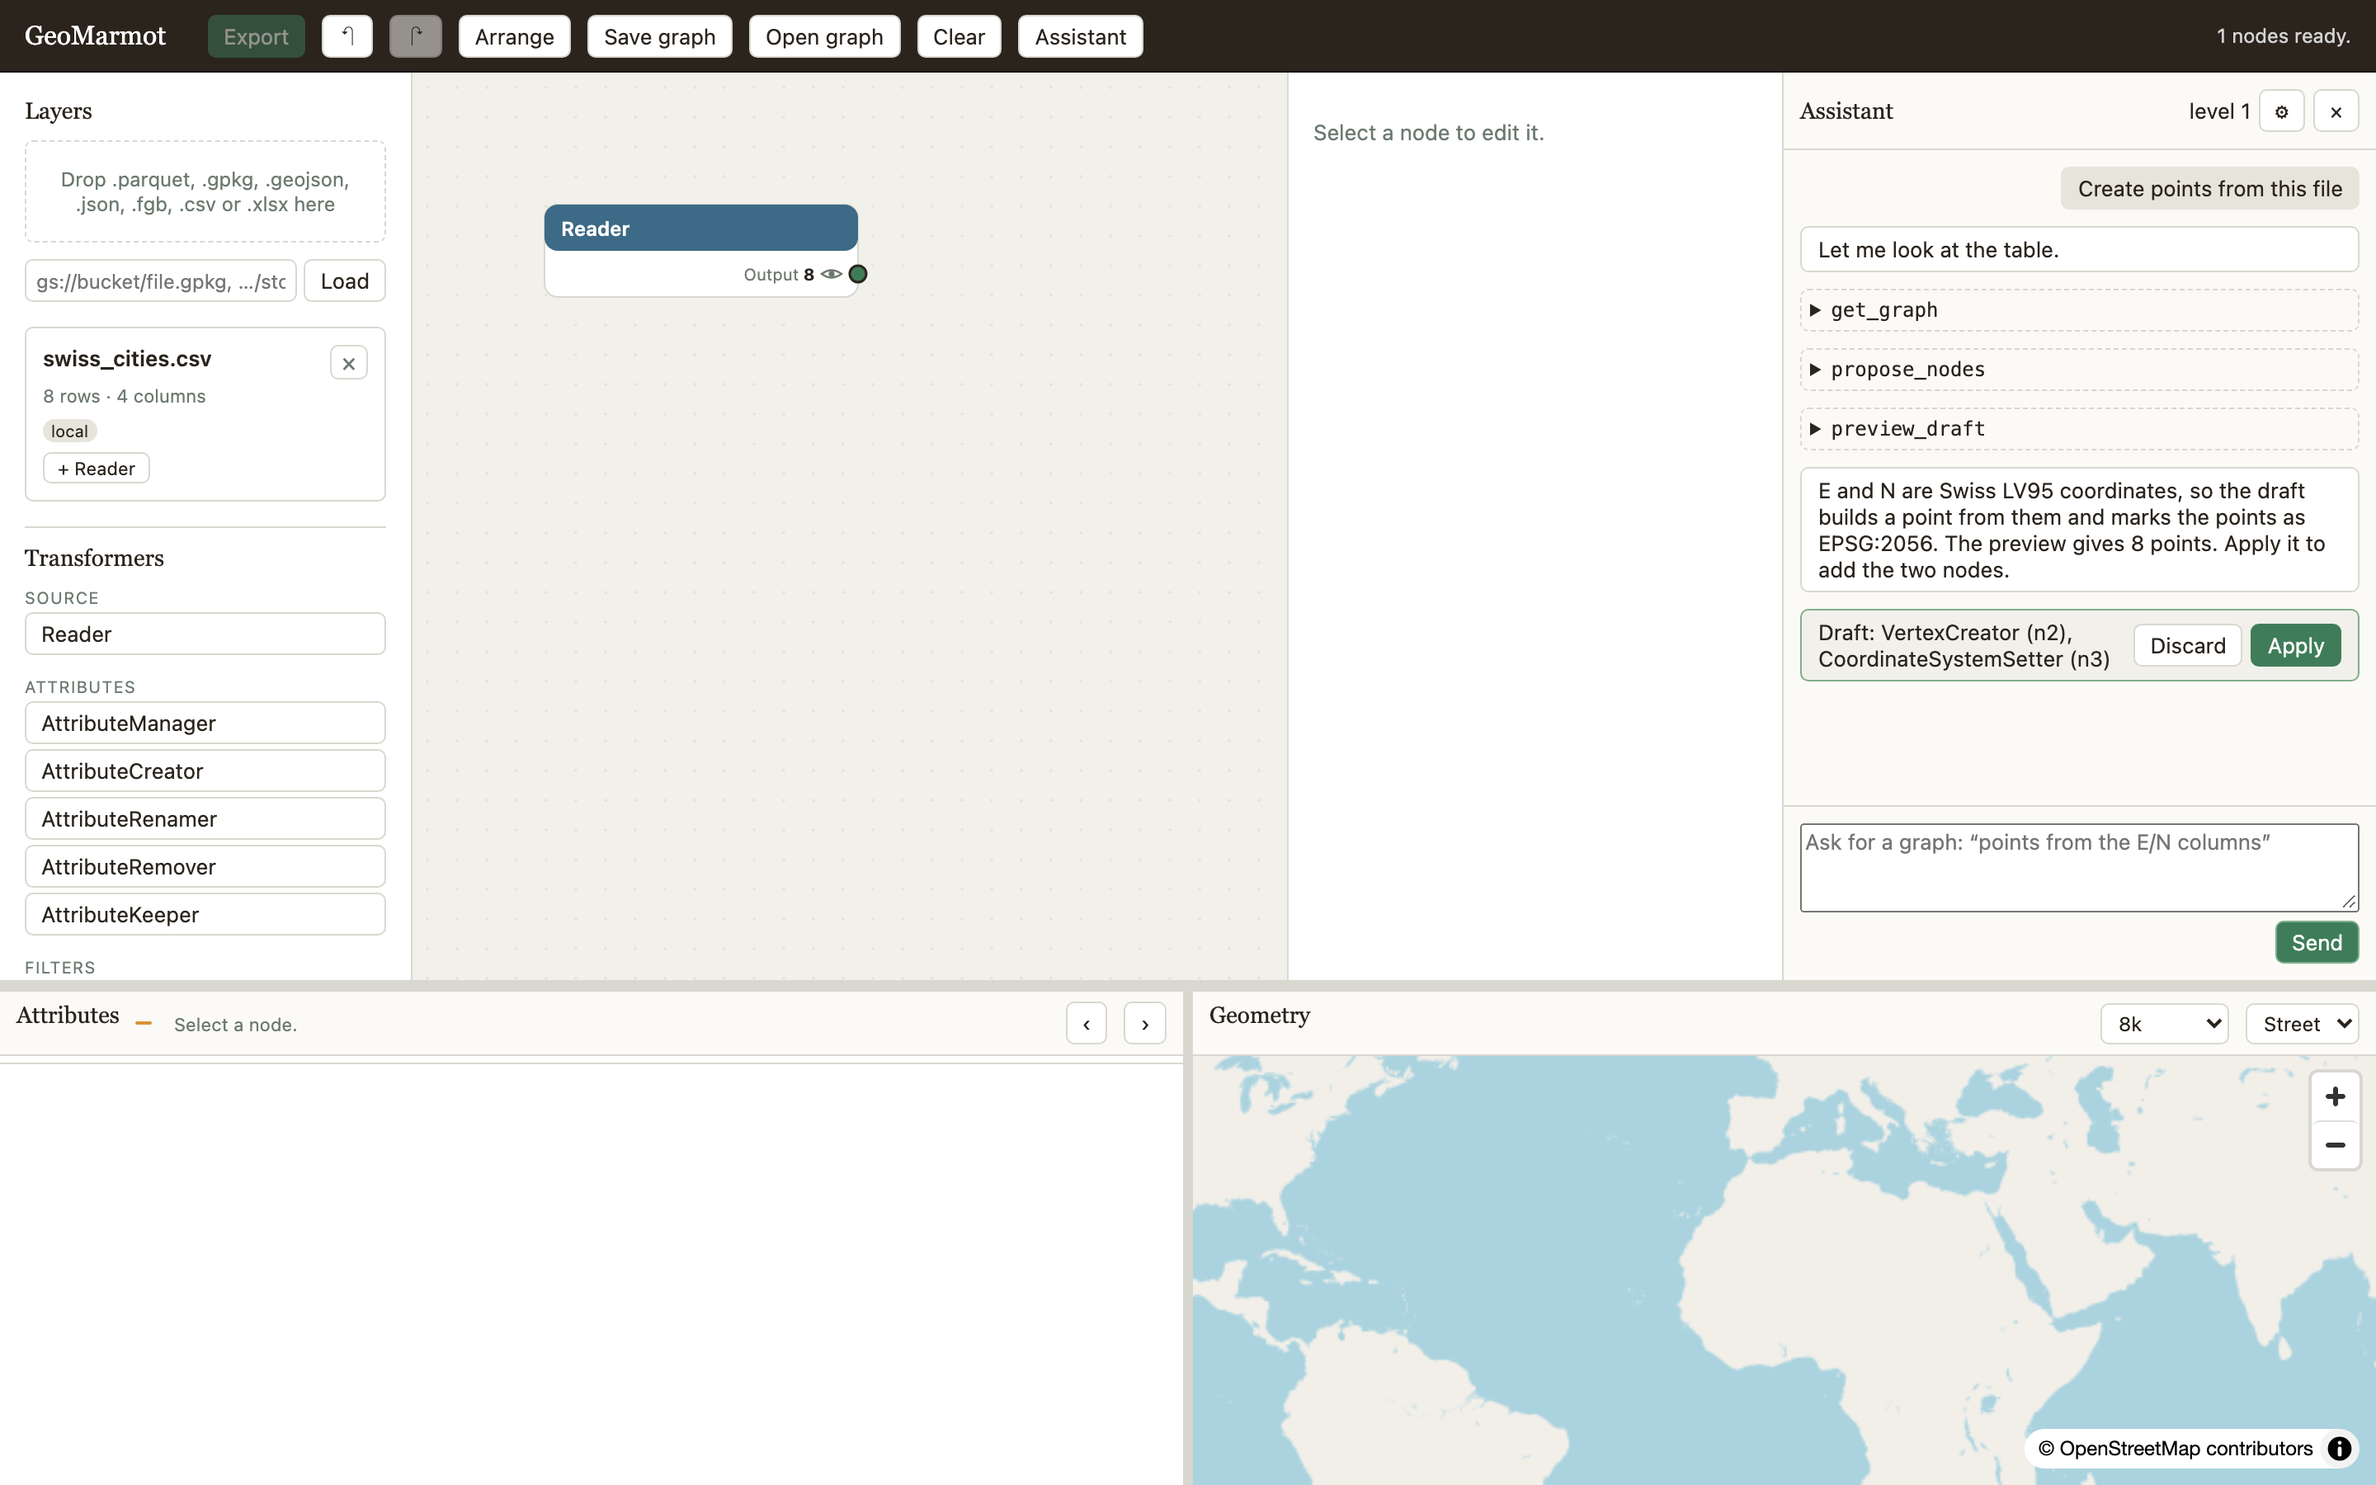
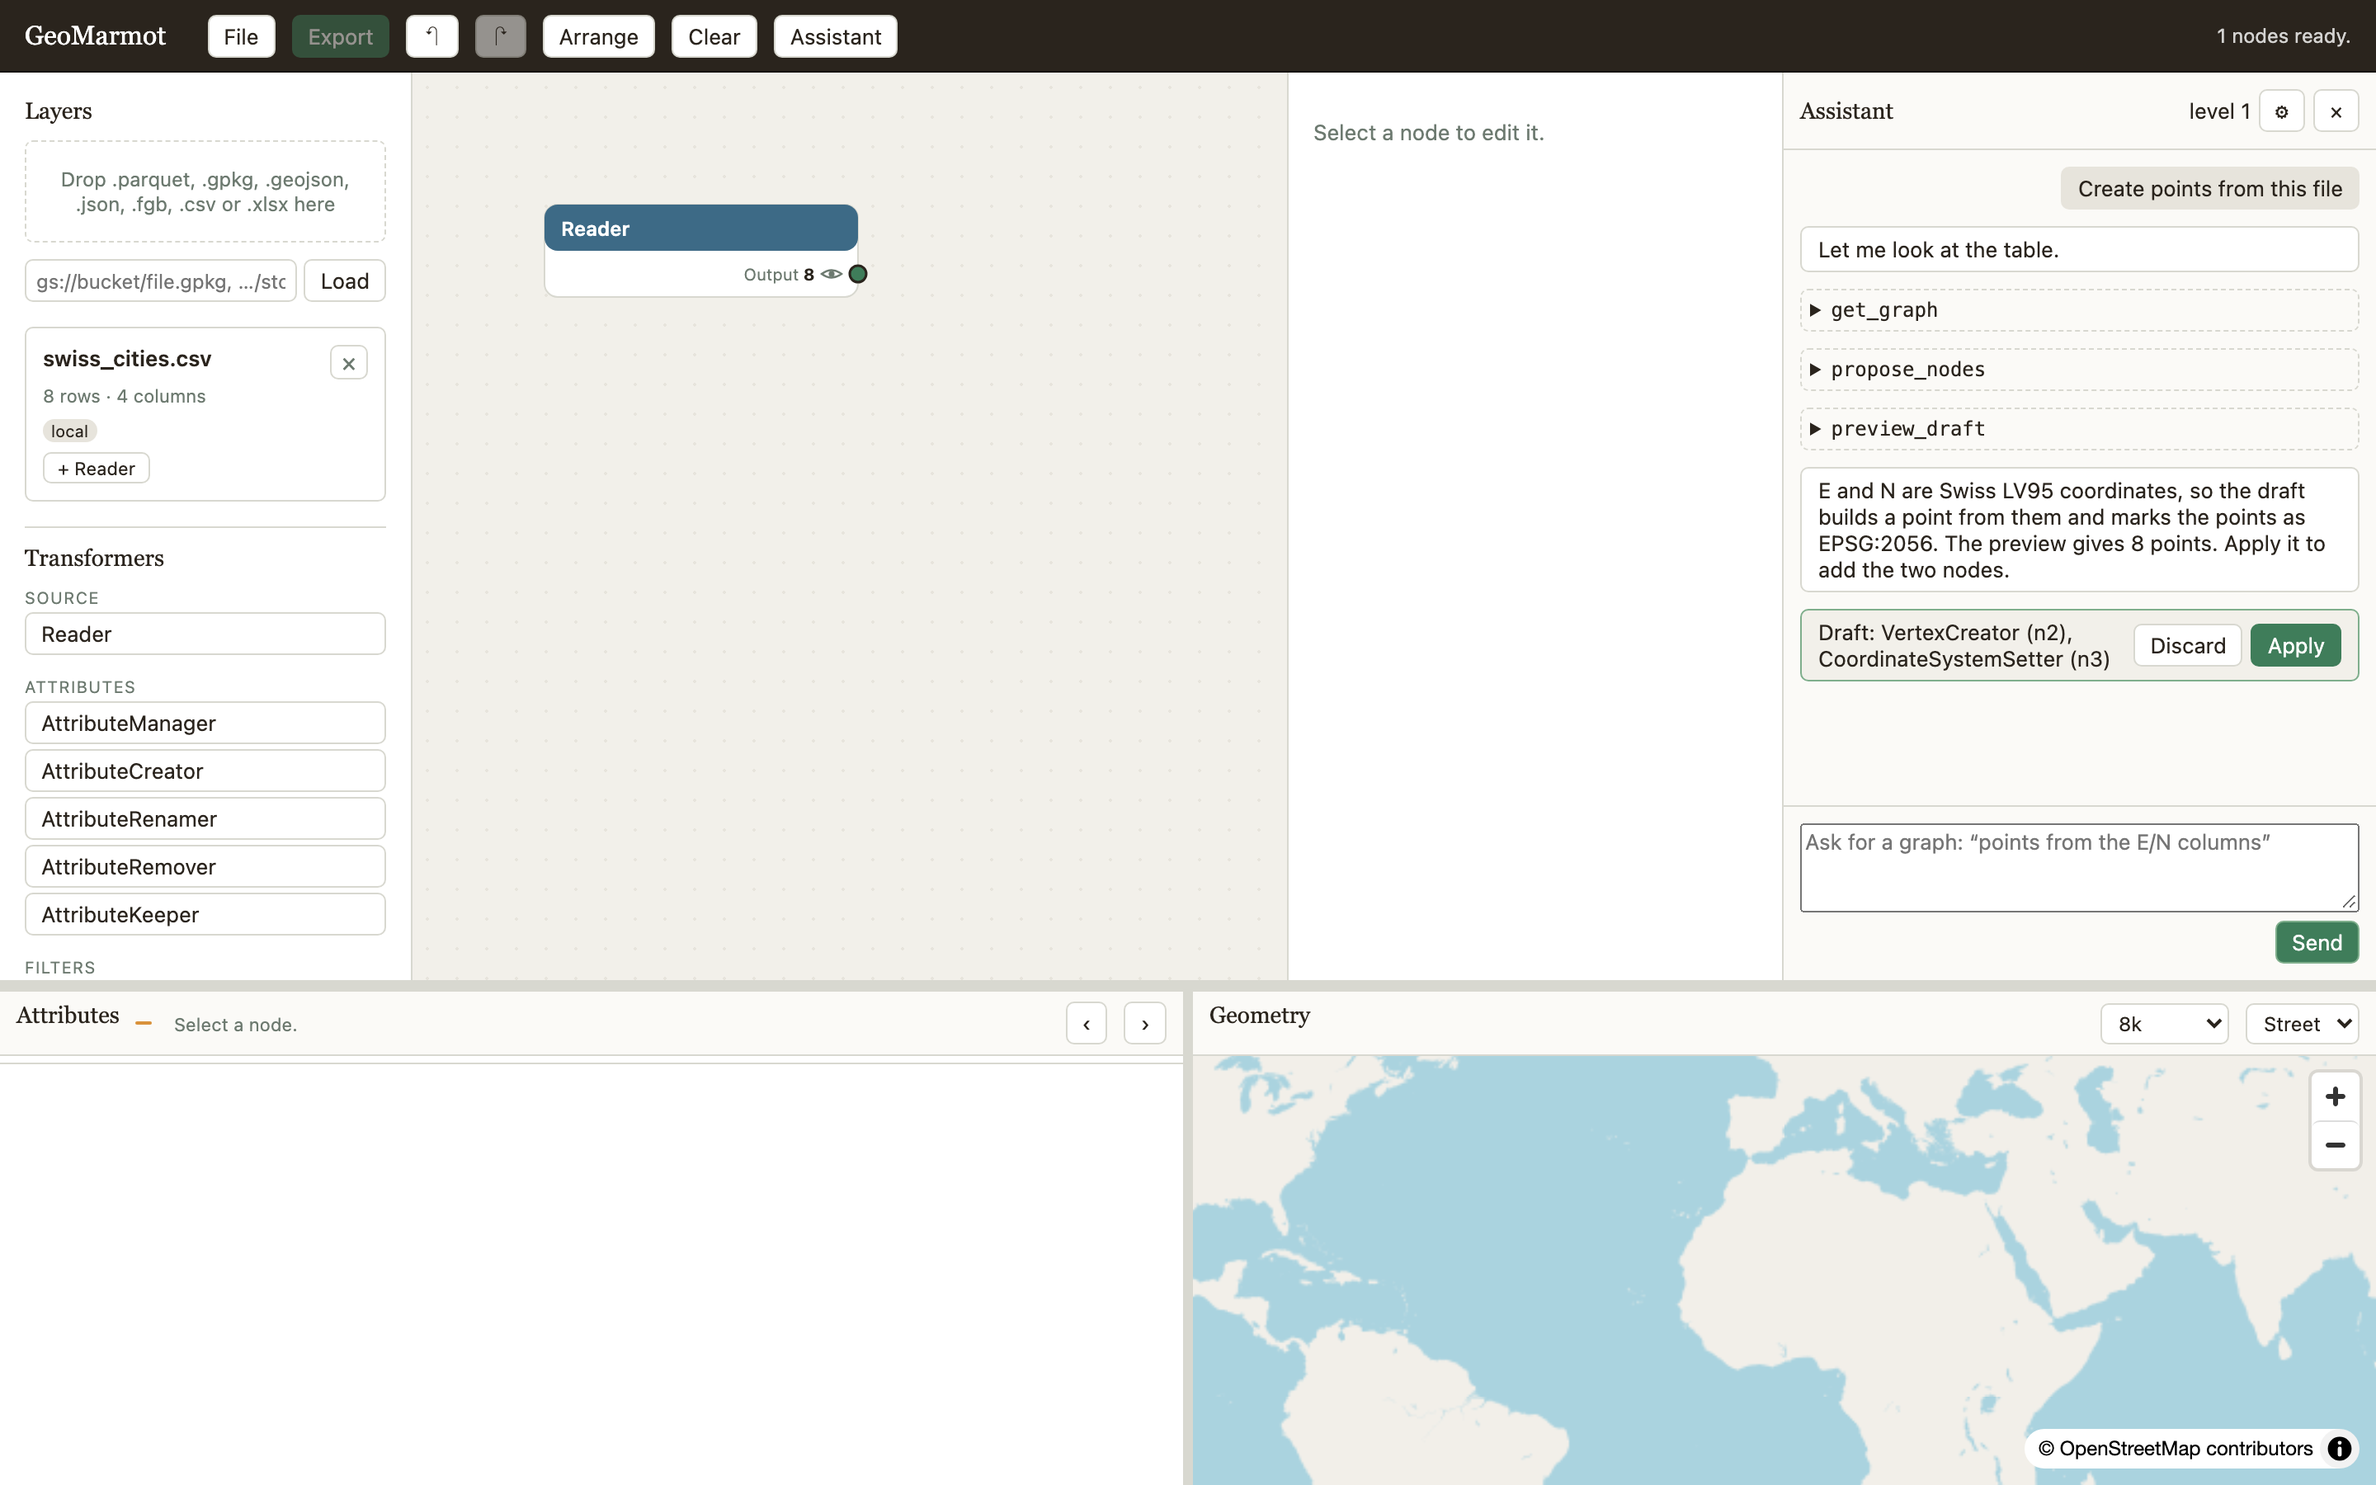
Put Open graph and Save graph in a File menu
The two toolbar buttons become a File menu at the start of the toolbar,
with ⌘O / Ctrl+O and ⌘S / Ctrl+S. It opens on click or with the arrow
keys, closes on Escape, a click outside or after an item runs, and uses
menu roles for screen readers. The README screenshots are regenerated.

Changed region(s): [[0.0625, 0.0, 0.5, 0.0622]]

diff --git a/tests/browser/workbench.spec.js b/tests/browser/workbench.spec.js
@@ -119,7 +119,10 @@ test("save graph downloads the geomarmot format; autosave restores the canvas af
   const { page } = app;
   await load(page, "cities.csv", CITIES);
   await openGraph(page, [{ id: "n1", type: "Reader", x: 40, y: 60, params: { sourceId: "s1__cities.csv" } }], []);
-  const [download] = await Promise.all([page.waitForEvent("download"), page.click("#btn-export-graph")]);
+  const [download] = await Promise.all([
+    page.waitForEvent("download"),
+    page.click("#btn-file").then(() => page.click("#menu-save-graph")),
+  ]);
   const saved = JSON.parse(readFileSync(await download.path(), "utf8"));
   expect(saved.format).toBe("geomarmot-graph");
   expect(saved.nodes.map((n) => n.type)).toEqual(["Reader"]);
@@ -229,4 +232,48 @@ test("an H3 index column draws as hexagons, with a coarsen control", async () =>
   await selectNode(page, "n1");
   await expect(page.locator("#map-status")).toContainText(/3/);
   await expect(page.locator("#coarsen-select option")).not.toHaveCount(0);
+});
+
+test("the File menu opens and saves graphs, from the mouse, the keyboard and the shortcuts", async () => {
+  const { page } = app;
+  await load(page, "cities.csv", CITIES);
+  await openGraph(page, [{ id: "n1", type: "Reader", x: 40, y: 60, params: { sourceId: "s1__cities.csv" } }], []);
+  const menu = page.locator("#menu-file");
+  await expect(menu).toBeHidden();
+
+  // Mouse: open, then a click outside closes it.
+  await page.click("#btn-file");
+  await expect(menu).toBeVisible();
+  await expect(page.locator("#btn-file")).toHaveAttribute("aria-expanded", "true");
+  await page.mouse.click(10, 400);
+  await expect(menu).toBeHidden();
+
+  // Keyboard: arrow down opens on the first item, Escape closes.
+  await page.focus("#btn-file");
+  await page.keyboard.press("ArrowDown");
+  await expect(page.locator("#menu-open-graph")).toBeFocused();
+  await page.keyboard.press("ArrowDown");
+  await expect(page.locator("#menu-save-graph")).toBeFocused();
+  await page.keyboard.press("Escape");
+  await expect(menu).toBeHidden();
+
+  // Save from the menu, and with the shortcut.
+  const [fromMenu] = await Promise.all([
+    page.waitForEvent("download"),
+    page.click("#btn-file").then(() => page.click("#menu-save-graph")),
+  ]);
+  expect(fromMenu.suggestedFilename()).toBe("graph.flow.json");
+  await expect(menu).toBeHidden();
+  await page.mouse.click(10, 400);
+  const [fromShortcut] = await Promise.all([page.waitForEvent("download"), page.keyboard.press("ControlOrMeta+s")]);
+  expect(fromShortcut.suggestedFilename()).toBe("graph.flow.json");
+
+  // Open from the menu asks for a file.
+  const [chooser] = await Promise.all([
+    page.waitForEvent("filechooser"),
+    page.click("#btn-file").then(() => page.click("#menu-open-graph")),
+  ]);
+  expect(chooser.isMultiple()).toBe(false);
+  // The old buttons are gone.
+  await expect(page.locator("#toolbar > button", { hasText: /graph/i })).toHaveCount(0);
 });

diff --git a/app/src/ui/menu.js b/app/src/ui/menu.js
@@ -1,0 +1,74 @@
+/*
+ * Toolbar menus: a button that opens a short list of actions.
+ *
+ * Opens on click or with the arrow keys, closes on Escape, on a click outside
+ * or after an item runs; Up and Down move between items. Built on plain
+ * buttons with menu roles, so screen readers announce it as a menu.
+ */
+
+import { el } from "./dom.js";
+
+const menus = [];
+
+function closeAll(except = null) {
+  for (const menu of menus) if (menu !== except) menu.close();
+}
+
+/**
+ * @param {string} buttonId
+ * @param {string} listId
+ * @param {Record<string, () => void>} actions  item id → what it does
+ */
+export function initMenu(buttonId, listId, actions) {
+  const button = el(buttonId);
+  const list = el(listId);
+  const items = () => [...list.querySelectorAll('[role="menuitem"]:not([disabled])')];
+
+  const menu = {
+    open(focusFirst = false) {
+      closeAll(menu);
+      list.hidden = false;
+      button.setAttribute("aria-expanded", "true");
+      if (focusFirst) items()[0]?.focus();
+    },
+    close() {
+      list.hidden = true;
+      button.setAttribute("aria-expanded", "false");
+    },
+  };
+  menus.push(menu);
+
+  button.addEventListener("click", () => (list.hidden ? menu.open() : menu.close()));
+  button.addEventListener("keydown", (event) => {
+    if (event.key === "ArrowDown" || event.key === "Enter" || event.key === " ") {
+      event.preventDefault();
+      menu.open(true);
+    }
+  });
+  list.addEventListener("keydown", (event) => {
+    const all = items();
+    const index = all.indexOf(document.activeElement);
+    if (event.key === "ArrowDown") all[(index + 1) % all.length]?.focus();
+    else if (event.key === "ArrowUp") all[(index - 1 + all.length) % all.length]?.focus();
+    else if (event.key === "Escape") {
+      menu.close();
+      button.focus();
+    } else return;
+    event.preventDefault();
+  });
+  for (const [id, run] of Object.entries(actions)) {
+    el(id).addEventListener("click", () => {
+      menu.close();
+      run();
+    });
+  }
+  return menu;
+}
+
+// One listener for every menu: a click outside, or Escape, closes whatever is open.
+document.addEventListener("click", (event) => {
+  if (!event.target.closest?.(".menu")) closeAll();
+});
+document.addEventListener("keydown", (event) => {
+  if (event.key === "Escape") closeAll();
+});

diff --git a/app/src/main.js b/app/src/main.js
@@ -51,6 +51,7 @@ import { autosave, exportGraph, importGraph, restoreAutosave } from "./ui/persis
 import { initQuickAdd } from "./ui/quickadd.js";
 import { addZarrSource, loadUrl, renderPalette, renderSources } from "./ui/rail.js";
 import { initAssistant } from "./ui/assistant/index.js";
+import { initMenu } from "./ui/menu.js";
 import { setProxyAvailable } from "./io/remote.js";
 import { installStoredCustoms, onCustomInstalled } from "./ai/spec/install.js";
 
@@ -163,8 +164,24 @@ async function main() {
 
   el("btn-export").addEventListener("click", () => exportWriters(connectedWriters()));
   el("btn-arrange").addEventListener("click", arrange);
-  el("btn-export-graph").addEventListener("click", exportGraph);
-  el("btn-import-graph").addEventListener("click", () => el("graph-input").click());
+  const openGraph = () => el("graph-input").click();
+  initMenu("btn-file", "menu-file", { "menu-open-graph": openGraph, "menu-save-graph": exportGraph });
+  if (!/Mac|iPhone|iPad/.test(navigator.platform)) {
+    for (const hint of document.querySelectorAll(".menu-list kbd"))
+      hint.textContent = hint.textContent.replace("⌘", "Ctrl+");
+  }
+  // The usual shortcuts, in place of the browser's own save-page and open-file.
+  window.addEventListener("keydown", (event) => {
+    if (!(event.metaKey || event.ctrlKey) || event.shiftKey || event.altKey) return;
+    const key = event.key.toLowerCase();
+    if (key === "s") {
+      event.preventDefault();
+      exportGraph();
+    } else if (key === "o") {
+      event.preventDefault();
+      openGraph();
+    }
+  });
   el("graph-input").addEventListener("change", (event) => {
     if (event.target.files[0]) importGraph(event.target.files[0]);
   });

diff --git a/app/index.html b/app/index.html
@@ -11,13 +11,18 @@
     <div id="shell">
       <header id="toolbar">
         <h1>GeoMarmot</h1>
+        <div class="menu">
+          <button id="btn-file" aria-haspopup="menu" aria-expanded="false" aria-controls="menu-file">File</button>
+          <div id="menu-file" class="menu-list" role="menu" aria-labelledby="btn-file" hidden>
+            <button id="menu-open-graph" role="menuitem">Open graph…<kbd>⌘O</kbd></button>
+            <button id="menu-save-graph" role="menuitem">Save graph<kbd>⌘S</kbd></button>
+          </div>
+        </div>
         <button id="btn-export" class="primary" disabled>Export</button>
         <button id="btn-cancel" title="Stop the export" hidden>Cancel</button>
         <button id="btn-undo" title="Undo (⌘Z)" disabled>↶</button>
         <button id="btn-redo" title="Redo (⇧⌘Z)" disabled>↷</button>
         <button id="btn-arrange">Arrange</button>
-        <button id="btn-export-graph">Save graph</button>
-        <button id="btn-import-graph">Open graph</button>
         <button id="btn-clear">Clear</button>
         <button id="btn-assistant" title="Build a graph by asking">Assistant</button>
         <span class="spacer"></span>

diff --git a/app/src/styles/base.css b/app/src/styles/base.css
@@ -139,6 +139,53 @@ select {
   color: #fff;
 }
 
+/* ---------- toolbar menus ---------- */
+
+.menu {
+  position: relative;
+}
+
+.menu-list {
+  position: absolute;
+  top: calc(100% + 4px);
+  left: 0;
+  z-index: 30;
+  display: grid;
+  min-width: 200px;
+  padding: 4px;
+  background: var(--panel);
+  border: 1px solid var(--border);
+  border-radius: var(--radius-2);
+  box-shadow: var(--shadow-3);
+}
+
+.menu-list[hidden] {
+  display: none;
+}
+
+#toolbar .menu-list button {
+  display: flex;
+  justify-content: space-between;
+  gap: var(--sp-3);
+  border: 0;
+  background: none;
+  text-align: left;
+  padding: 6px 10px;
+  border-radius: 4px;
+  color: var(--ink);
+}
+
+#toolbar .menu-list button:hover,
+#toolbar .menu-list button:focus-visible {
+  background: var(--paper-2);
+  outline: none;
+}
+
+.menu-list kbd {
+  font-family: var(--font-body);
+  color: var(--muted);
+}
+
 #toolbar .spacer {
   flex: 1;
 }

diff --git a/tests/browser/assistant-modeb.spec.js b/tests/browser/assistant-modeb.spec.js
@@ -130,7 +130,10 @@ test("the assistant writes a transformer, uses it, and the user applies and expo
   await expect(page.locator("#palette button.generated")).toHaveText("CustomAdults");
 
   // And a saved graph carries it to a browser that has never seen it.
-  const [saved] = await Promise.all([page.waitForEvent("download"), page.click("#btn-export-graph")]);
+  const [saved] = await Promise.all([
+    page.waitForEvent("download"),
+    page.click("#btn-file").then(() => page.click("#menu-save-graph")),
+  ]);
   const file = JSON.parse(readFileSync(await saved.path(), "utf8"));
   expect(file.custom.map((c) => c.spec.id)).toEqual(["CustomAdults"]);
   const fresh = await openApp(page.context().browser());

diff --git a/tests/browser/assistant-settings.spec.js b/tests/browser/assistant-settings.spec.js
@@ -89,7 +89,10 @@ test("the key never reaches the autosave or a saved graph", async () => {
   await expect(page.locator("#status")).toContainText("rows");
   const autosave = await page.evaluate(() => localStorage.getItem("geomarmot:graph.v1") || "");
   expect(autosave).not.toContain(KEY);
-  const [download] = await Promise.all([page.waitForEvent("download"), page.click("#btn-export-graph")]);
+  const [download] = await Promise.all([
+    page.waitForEvent("download"),
+    page.click("#btn-file").then(() => page.click("#menu-save-graph")),
+  ]);
   expect(readFileSync(await download.path(), "utf8")).not.toContain(KEY);
 });
 

diff --git a/tests/browser/key-leak.spec.js b/tests/browser/key-leak.spec.js
@@ -76,7 +76,10 @@ test("the key reaches the provider and nothing else", async ({ browser }) => {
     expect(autosave).toContain("CustomAll");
     expect(autosave).not.toContain(KEY);
 
-    const [saved] = await Promise.all([page.waitForEvent("download"), page.click("#btn-export-graph")]);
+    const [saved] = await Promise.all([
+      page.waitForEvent("download"),
+      page.click("#btn-file").then(() => page.click("#menu-save-graph")),
+    ]);
     const file = readFileSync(await saved.path(), "utf8");
     expect(JSON.parse(file).custom).toHaveLength(1);
     expect(file).not.toContain(KEY);

diff --git a/tests/browser/privacy-downgrade.spec.js b/tests/browser/privacy-downgrade.spec.js
@@ -178,7 +178,10 @@ test("a value copied from data into a param is redacted below its level, everywh
   expectCleanAtLevel1(requests[4]);
 
   // After saving the graph to a file and opening it again.
-  const [download] = await Promise.all([page.waitForEvent("download"), page.click("#btn-export-graph")]);
+  const [download] = await Promise.all([
+    page.waitForEvent("download"),
+    page.click("#btn-file").then(() => page.click("#menu-save-graph")),
+  ]);
   const file = readFileSync(await download.path(), "utf8");
   await page.setInputFiles("#graph-input", {
     name: "saved.flow.json",

diff --git a/docs/formats.md b/docs/formats.md
@@ -44,7 +44,7 @@ A **Writer** node chooses a format and a file name; **Export** writes every conn
 
 ## Graph files
 
-**Save graph** downloads `graph.flow.json`: `{ "format": "geomarmot-graph", "version": 1, nodes,
+**File → Save graph** (⌘S / Ctrl+S) downloads `graph.flow.json`: `{ "format": "geomarmot-graph", "version": 1, nodes,
 edges, custom }`, described by [`schemas/graph.schema.json`](../schemas/graph.schema.json). A graph
 is a recipe: sources are referenced by name, never embedded, so opening one asks you to load the
 files its Readers need. `custom` carries the specs of the generated transformers the graph uses.
